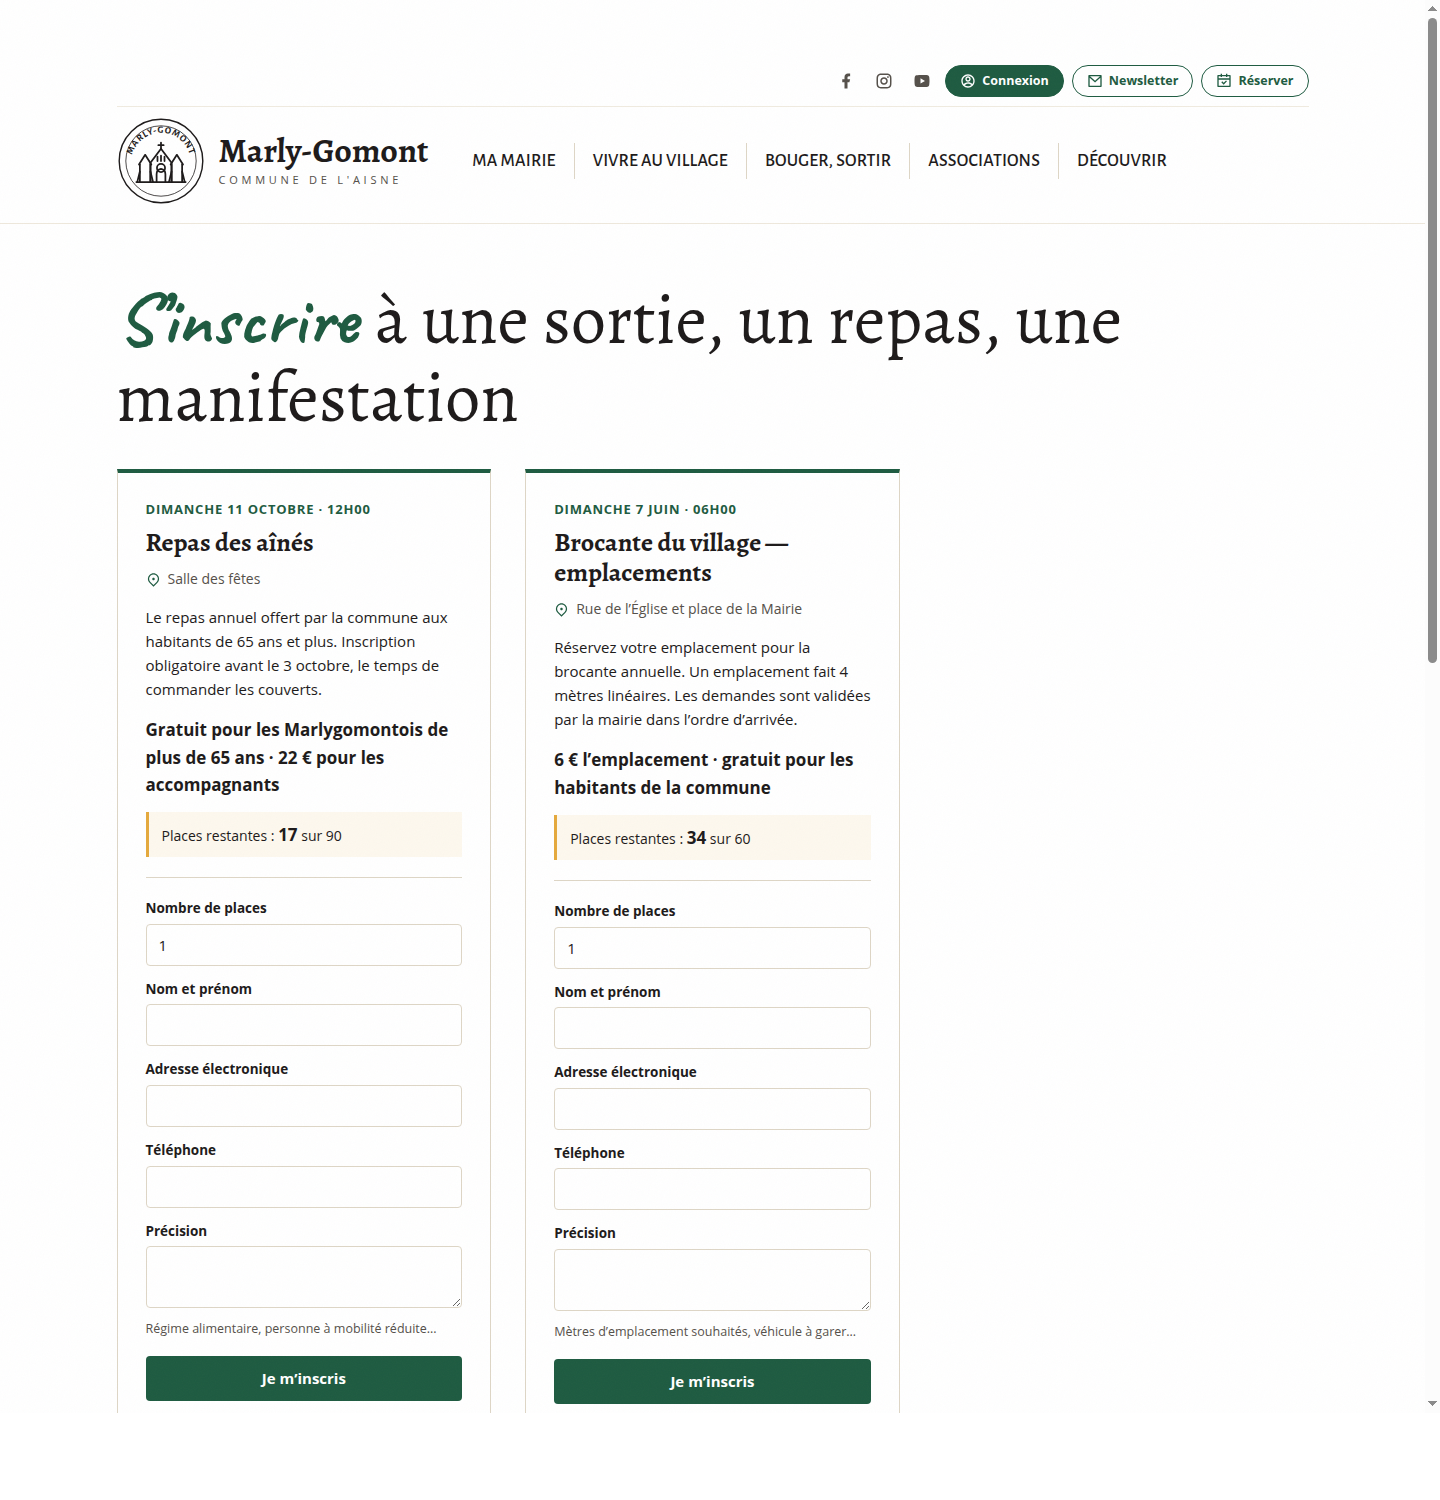
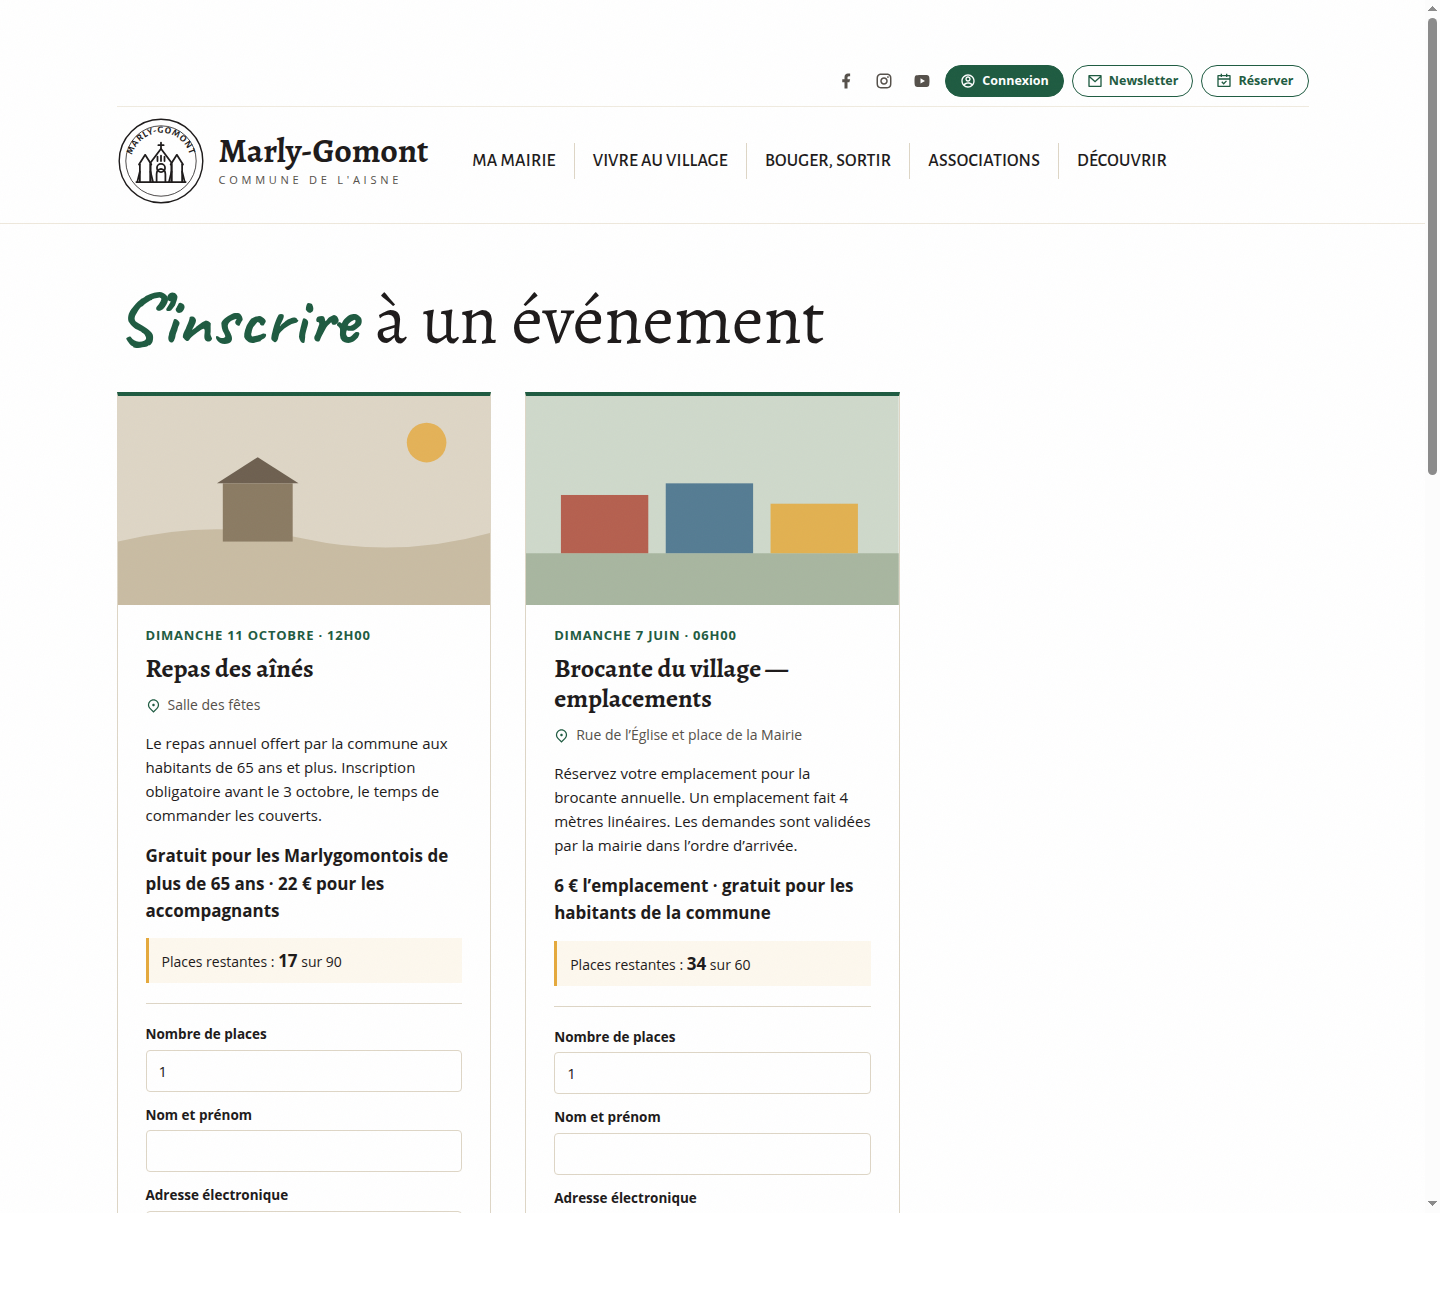
Renomme en << evenements >> et ouvre les photographies
Deux defauts que la question a reveles.

LE MOT. J'avais appele ca << manifestations >> - du jargon administratif.
La mairie lit desormais << Evenements et inscriptions >>, << Creer un
evenement >>. Les noms de tables et de fonctions ne bougent pas : ils
restent internes, et spip_evenements est deja pris par le plugin Agenda.

LA PHOTOGRAPHIE. Bidart a des photos sur ses cartes, moi non. Les tables
etaient declarees par declarer_tables_principales, l'API historique :
elle suffit aux boucles mais n'ouvre pas les logos, donc il n'y avait
nulle part ou deposer l'image.

Elles passent a declarer_tables_objets_sql, l'API de SPIP 4 pour un objet
editorial. Cela apporte, en une declaration : les logos, la recherche
plein texte sur le titre et le descriptif, et la gestion des statuts.
Aucune colonne ne change - c'est la declaration qui evolue.

La photo se depose comme sur un article, dans la colonne de droite. La
carte publique l'affiche a pleine largeur, sans marge : une image
encadree de blanc de tous cotes fait vignette, pas illustration. Sans
photo, la carte reste propre - on ne montre pas un cadre vide.

diff --git a/theme-marly/apercu/reservation-publiable.html b/theme-marly/apercu/reservation-publiable.html
@@ -814,7 +814,14 @@ section{ padding-block:70px; position:relative; }
 /* --- Manifestations, sur la page de réservation --------------------------- */
 .manifs{ padding-block:0 64px; }
 .manifs-grille{ display:grid; grid-template-columns:repeat(auto-fill,minmax(340px,1fr)); gap:34px; }
-.manif{ background:#fff; border:1px solid var(--trait); border-top:4px solid var(--accent); padding:26px 28px 30px; }
+.manif{ background:#fff; border:1px solid var(--trait); border-top:4px solid var(--accent); overflow:hidden; }
+.manif > *:not(.manif-photo){ margin-left:28px; margin-right:28px; }
+.manif > *:first-child:not(.manif-photo){ margin-top:26px; }
+.manif > *:last-child{ margin-bottom:30px; }
+/* La photo mord sur toute la largeur de la carte : une image encadrée de
+   blanc de tous côtés fait vignette, pas illustration. */
+.manif-photo{ margin:0 0 20px; }
+.manif-photo img, .manif-photo svg{ display:block; width:100%; height:auto; aspect-ratio:16/9; object-fit:cover; }
 .manif-quand{ font-family:var(--texte); font-size:13px; font-weight:700; letter-spacing:.06em;
               text-transform:uppercase; color:var(--accent); margin:0 0 8px; }
 .manif-titre{ font-family:var(--serif); font-size:26px; line-height:1.15; margin:0 0 10px; }
@@ -1006,11 +1013,12 @@ section{ padding-block:70px; position:relative; }
 <div class="large page-reservation">
 
 <section class="manifs">
-	<h1 class="titre-bloc">S’inscrire <span>à une sortie, un repas, une manifestation</span></h1>
+	<h1 class="titre-bloc">S’inscrire <span>à un événement</span></h1>
 
 	<div class="manifs-grille">
 
 		<article class="manif">
+			<div class="manif-photo"><svg viewBox="0 0 640 360" width="640" height="360" role="img" aria-label="Photographie de l’événement"><rect width="640" height="360" fill="#DED6C6"/><path d="M0 250 Q160 210 320 245 T640 235 V360 H0 Z" fill="#C9BCA3"/><circle cx="530" cy="80" r="34" fill="#E5A93C" opacity=".8"/><rect x="180" y="150" width="120" height="100" fill="#8B7B63"/><path d="M170 150 L240 105 L310 150 Z" fill="#6E6050"/></svg></div>
 			<p class="manif-quand">dimanche 11 octobre · 12h00</p>
 			<h2 class="manif-titre">Repas des aînés</h2>
 			<p class="manif-lieu"><svg class="ico" aria-hidden="true"><use href="#ri-map-pin-2-line"/></svg> Salle des fêtes</p>
@@ -1035,6 +1043,7 @@ section{ padding-block:70px; position:relative; }
 		</article>
 
 		<article class="manif">
+			<div class="manif-photo"><svg viewBox="0 0 640 360" width="640" height="360" role="img" aria-label="Photographie de l’événement"><rect width="640" height="360" fill="#CFD9CB"/><path d="M0 270 H640 V360 H0 Z" fill="#A8B6A0"/><rect x="60" y="170" width="150" height="100" fill="#B04A3A" opacity=".85"/><rect x="240" y="150" width="150" height="120" fill="#3F6B8A" opacity=".85"/><rect x="420" y="185" width="150" height="85" fill="#E5A93C" opacity=".85"/></svg></div>
 			<p class="manif-quand">dimanche 7 juin · 06h00</p>
 			<h2 class="manif-titre">Brocante du village — emplacements</h2>
 			<p class="manif-lieu"><svg class="ico" aria-hidden="true"><use href="#ri-map-pin-2-line"/></svg> Rue de l’Église et place de la Mairie</p>

diff --git a/theme-marly/squelettes/css/theme.css b/theme-marly/squelettes/css/theme.css
@@ -732,7 +732,14 @@ section{ padding-block:70px; position:relative; }
 /* --- Manifestations, sur la page de réservation --------------------------- */
 .manifs{ padding-block:0 64px; }
 .manifs-grille{ display:grid; grid-template-columns:repeat(auto-fill,minmax(340px,1fr)); gap:34px; }
-.manif{ background:#fff; border:1px solid var(--trait); border-top:4px solid var(--accent); padding:26px 28px 30px; }
+.manif{ background:#fff; border:1px solid var(--trait); border-top:4px solid var(--accent); overflow:hidden; }
+.manif > *:not(.manif-photo){ margin-left:28px; margin-right:28px; }
+.manif > *:first-child:not(.manif-photo){ margin-top:26px; }
+.manif > *:last-child{ margin-bottom:30px; }
+/* La photo mord sur toute la largeur de la carte : une image encadrée de
+   blanc de tous côtés fait vignette, pas illustration. */
+.manif-photo{ margin:0 0 20px; }
+.manif-photo img, .manif-photo svg{ display:block; width:100%; height:auto; aspect-ratio:16/9; object-fit:cover; }
 .manif-quand{ font-family:var(--texte); font-size:13px; font-weight:700; letter-spacing:.06em;
               text-transform:uppercase; color:var(--accent); margin:0 0 8px; }
 .manif-titre{ font-family:var(--serif); font-size:26px; line-height:1.15; margin:0 0 10px; }

diff --git a/theme-marly/squelettes/contenu/reservation.html b/theme-marly/squelettes/contenu/reservation.html
@@ -27,6 +27,10 @@
 		<div class="manifs-grille">
 			<BOUCLE_manifs(MANIFESTATIONS){statut=publie}{date_debut>#DATE}{par date_debut}{0,12}>
 			<article class="manif">
+				[(#REM) La photographie est le logo de l'evenement, depose dans
+				        l'espace prive comme sur un article. Sans photo, la carte
+				        reste propre : on ne montre pas un cadre vide. ]
+				[<div class="manif-photo">(#LOGO_MANIFESTATION||image_reduire{640,360})</div>]
 				<p class="manif-quand">[(#DATE_DEBUT|affdate{'l j F'})] · [(#DATE_DEBUT|affdate{'H\hi'})]</p>
 				<h2 class="manif-titre">#TITRE</h2>
 				[<p class="manif-lieu"><svg class="ico" aria-hidden="true"><use href="#ri-map-pin-2-line"/></svg> (#LIEU)</p>]

diff --git a/plugin-marly/formulaires/editer_manifestation.html b/plugin-marly/formulaires/editer_manifestation.html
@@ -38,6 +38,12 @@
 				<input type="datetime-local" class="text" name="date_fin" id="date_fin" value="[(#ENV{date_fin}|attribut_html)]">
 				<small><:marly:date_fin_aide:></small>
 			</li>
+				[(#ENV{id_manifestation}|=={new}|oui)
+				<li class="editer editer_logo">
+					<label><:marly:champ_logo:></label>
+					<small><:marly:logo_aide:></small>
+				</li>
+				]
 				<li class="editer editer_descriptif">
 					<label for="descriptif"><:marly:champ_descriptif:></label>
 					<textarea name="descriptif" id="descriptif" rows="6">[(#ENV{descriptif}|textebrut)]</textarea>

diff --git a/plugin-marly/lang/marly_fr.php b/plugin-marly/lang/marly_fr.php
@@ -176,22 +176,22 @@ Votre réservation de @salle@ le @date_debut@ a été annulée.
 	'erreur_delais_croises'    => 'Le délai maximum doit être supérieur au délai minimum.',
 
 	// --- Manifestations --------------------------------------------------------
-	'titre_manifestations'  => 'Manifestations et inscriptions',
-	'creer_manifestation'   => 'Créer une manifestation',
-	'modifier_manifestation' => 'Modifier la manifestation',
-	'manifestation_enregistree' => 'La manifestation a été enregistrée.',
-	'aucune_manifestation'  => 'Aucune manifestation. Créez-en une pour ouvrir les inscriptions.',
+	'titre_manifestations'  => 'Événements et inscriptions',
+	'creer_manifestation'   => 'Créer un événement',
+	'modifier_manifestation' => 'Modifier l’événement',
+	'manifestation_enregistree' => 'L’événement a été enregistré.',
+	'aucune_manifestation'  => 'Aucun événement. Créez-en un pour ouvrir les inscriptions.',
 	'les_inscrits'          => 'Les inscrits',
 	'inscrits'              => 'inscrits',
 	'inscrite'              => 'Inscrit',
 	'en_attente_courte'     => 'En attente',
 	'sans_limite'           => 'sans limite',
-	'col_manifestation'     => 'Manifestation',
+	'col_manifestation'     => 'Événement',
 	'col_quand'             => 'Quand',
 	'col_places'            => 'Places',
 	'col_inscriptions'      => 'Inscriptions',
 
-	'legende_evenement'     => 'La manifestation',
+	'legende_evenement'     => 'L’événement',
 	'legende_places'        => 'Places et tarif',
 	'legende_fenetre'       => 'Fenêtre d’inscription',
 
@@ -199,9 +199,11 @@ Votre réservation de @salle@ le @date_debut@ a été annulée.
 	'lieu_aide'                 => 'Exemple : salle des fêtes, place de la mairie, départ devant l’école.',
 	'champ_date_debut'          => 'Date et heure',
 	'champ_date_fin'            => 'Fin',
-	'date_fin_aide'             => 'Laissez vide pour une manifestation ponctuelle.',
+	'date_fin_aide'             => 'Laissez vide pour un événement ponctuel.',
 	'champ_places'              => 'Nombre de places',
 	'places_aide'               => '0 pour ne pas limiter — une kermesse en plein air n’a pas de jauge.',
+	'champ_logo'                => 'Photographie',
+	'logo_aide'                 => 'Elle s’ajoute après l’enregistrement, dans la colonne de droite : « Ajouter un logo ». C’est elle qui s’affiche sur la carte du site.',
 	'champ_places_par_personne' => 'Places maximum par inscription',
 	'places_par_personne_aide'  => 'Évite qu’une personne réserve la moitié de la salle.',
 	'champ_validation'          => 'Validation',
@@ -230,16 +232,16 @@ Votre réservation de @salle@ le @date_debut@ a été annulée.
 	'erreur_inscriptions_ferme' => 'Les inscriptions ne sont pas ouvertes.',
 	'erreur_inscriptions_pas_encore' => 'Les inscriptions ne sont pas encore ouvertes.',
 	'erreur_inscriptions_clos'  => 'Les inscriptions sont closes.',
-	'erreur_inscriptions_passe' => 'Cette manifestation a déjà eu lieu.',
+	'erreur_inscriptions_passe' => 'Cet événement a déjà eu lieu.',
 	'erreur_cloture_avant'      => 'La clôture doit venir après l’ouverture.',
-	'erreur_cloture_apres_evenement' => 'La clôture doit venir avant la manifestation.',
+	'erreur_cloture_apres_evenement' => 'La clôture doit venir avant l’événement.',
 
 	'courriel_sujet_inscrit'    => '@site@ — votre inscription est confirmée',
 	'courriel_corps_inscrit'    => 'Bonjour @nom@,
 
 Votre inscription est confirmée :
 
-  Manifestation : @salle@
+  Événement : @salle@
   Date          : @date_debut@
   Places        : @places@
 

diff --git a/plugin-marly/base/marly.php b/plugin-marly/base/marly.php
@@ -21,7 +21,7 @@ if (!defined('_ECRIRE_INC_VERSION')) {
 	return;
 }
 
-function marly_declarer_tables_principales($tables) {
+function marly_declarer_tables_objets_sql($tables) {
 
 	$tables['spip_salles'] = array(
 		'field' => array(
@@ -45,8 +45,21 @@ function marly_declarer_tables_principales($tables) {
 			'PRIMARY KEY'  => 'id_salle',
 			'KEY statut'   => 'statut',
 		),
-		'titre'     => 'titre AS titre, "" AS lang',
+		'titre'      => 'titre AS titre, "" AS lang',
 		'principale' => 'oui',
+		'type'       => 'salle',
+		'editable'   => 'oui',
+		'champs_editables'  => array('titre', 'descriptif', 'capacite', 'tarif_commune',
+		                             'tarif_hors_commune', 'caution', 'delai_min', 'delai_max'),
+		'rechercher_champs' => array('titre' => 8, 'descriptif' => 3),
+		'statut' => array(
+			array(
+				'champ'     => 'statut',
+				'publie'    => 'publie',
+				'previsu'   => 'publie,prepa',
+				'exception' => 'statut',
+			),
+		),
 	);
 
 
@@ -101,6 +114,28 @@ function marly_declarer_tables_principales($tables) {
 		'titre'      => 'titre AS titre, "" AS lang',
 		'date'       => 'date_debut',
 		'principale' => 'oui',
+		'type'       => 'manifestation',
+		'editable'   => 'oui',
+
+		/* C'est cette declaration qui ouvre les LOGOS : SPIP autorise une
+		   image sur tout objet editorial declare ici. Sans elle, la table
+		   existe et les boucles marchent, mais il n'y a nulle part ou
+		   deposer la photo. */
+		'champs_editables'  => array('titre', 'descriptif', 'lieu', 'date_debut', 'date_fin',
+		                             'places', 'places_par_personne', 'tarif', 'validation',
+		                             'ouverture', 'cloture'),
+		'rechercher_champs' => array('titre' => 8, 'descriptif' => 3, 'lieu' => 2),
+		'statut' => array(
+			array(
+				'champ'     => 'statut',
+				'publie'    => 'publie',
+				'previsu'   => 'publie,prepa',
+				'exception' => 'statut',
+			),
+		),
+		'texte_modifier'    => 'marly:modifier_manifestation',
+		'texte_creer'       => 'marly:creer_manifestation',
+		'info_aucun_objet'  => 'marly:aucune_manifestation',
 	);
 
 	$tables['spip_reservations'] = array(
@@ -151,6 +186,8 @@ function marly_declarer_tables_principales($tables) {
 		'titre'      => 'nom AS titre, "" AS lang',
 		'date'       => 'date',
 		'principale' => 'oui',
+		'type'       => 'reservation',
+		'editable'   => 'non',
 	);
 
 	return $tables;

diff --git a/theme-marly/outils/construire-apercu-reservation.py b/theme-marly/outils/construire-apercu-reservation.py
@@ -33,11 +33,12 @@ corps = '''
 <div class="large page-reservation">
 
 <section class="manifs">
-	<h1 class="titre-bloc">S’inscrire <span>à une sortie, un repas, une manifestation</span></h1>
+	<h1 class="titre-bloc">S’inscrire <span>à un événement</span></h1>
 
 	<div class="manifs-grille">
 
 		<article class="manif">
+			<div class="manif-photo"><svg viewBox="0 0 640 360" width="640" height="360" role="img" aria-label="Photographie de l\u2019\u00e9v\u00e9nement"><rect width="640" height="360" fill="#DED6C6"/><path d="M0 250 Q160 210 320 245 T640 235 V360 H0 Z" fill="#C9BCA3"/><circle cx="530" cy="80" r="34" fill="#E5A93C" opacity=".8"/><rect x="180" y="150" width="120" height="100" fill="#8B7B63"/><path d="M170 150 L240 105 L310 150 Z" fill="#6E6050"/></svg></div>
 			<p class="manif-quand">dimanche 11 octobre · 12h00</p>
 			<h2 class="manif-titre">Repas des aînés</h2>
 			<p class="manif-lieu"><svg class="ico" aria-hidden="true"><use href="#ri-map-pin-2-line"/></svg> Salle des fêtes</p>
@@ -62,6 +63,7 @@ corps = '''
 		</article>
 
 		<article class="manif">
+			<div class="manif-photo"><svg viewBox="0 0 640 360" width="640" height="360" role="img" aria-label="Photographie de l\u2019\u00e9v\u00e9nement"><rect width="640" height="360" fill="#CFD9CB"/><path d="M0 270 H640 V360 H0 Z" fill="#A8B6A0"/><rect x="60" y="170" width="150" height="100" fill="#B04A3A" opacity=".85"/><rect x="240" y="150" width="150" height="120" fill="#3F6B8A" opacity=".85"/><rect x="420" y="185" width="150" height="85" fill="#E5A93C" opacity=".85"/></svg></div>
 			<p class="manif-quand">dimanche 7 juin · 06h00</p>
 			<h2 class="manif-titre">Brocante du village — emplacements</h2>
 			<p class="manif-lieu"><svg class="ico" aria-hidden="true"><use href="#ri-map-pin-2-line"/></svg> Rue de l’Église et place de la Mairie</p>

diff --git a/plugin-marly/marly_administrations.php b/plugin-marly/marly_administrations.php
@@ -32,6 +32,14 @@ function marly_upgrade($nom_meta_base_version, $version_cible) {
 		array('maj_tables', array('spip_manifestations', 'spip_reservations')),
 	);
 
+	/* 3.1.0 — les tables passent en objets editoriaux declares (l'API de
+	   SPIP 4). Aucune colonne ne change : c'est la declaration qui evolue,
+	   pour ouvrir les logos et la recherche. maj_tables est rejoue par
+	   securite, il ne fera rien si tout est deja en place. */
+	$maj['3.1.0'] = array(
+		array('maj_tables', array('spip_manifestations', 'spip_salles', 'spip_reservations')),
+	);
+
 	include_spip('base/upgrade');
 	maj_plugin($nom_meta_base_version, $version_cible, $maj);
 }

diff --git a/theme-marly/squelettes/lang/marly_fr.php b/theme-marly/squelettes/lang/marly_fr.php
@@ -36,7 +36,7 @@ $GLOBALS[$GLOBALS['idx_lang']] = array(
 	'reserver_salle'       => 'Réserver une salle',
 	'une_salle'            => 'une salle',
 	'sinscrire'            => 'S’inscrire',
-	'a_une_sortie'         => 'à une sortie, un repas, une manifestation',
+	'a_une_sortie'         => 'à un événement',
 	'places_restantes'     => 'Places restantes :',
 	'sur'                  => 'sur',
 	'personnes'            => 'personnes assises',
